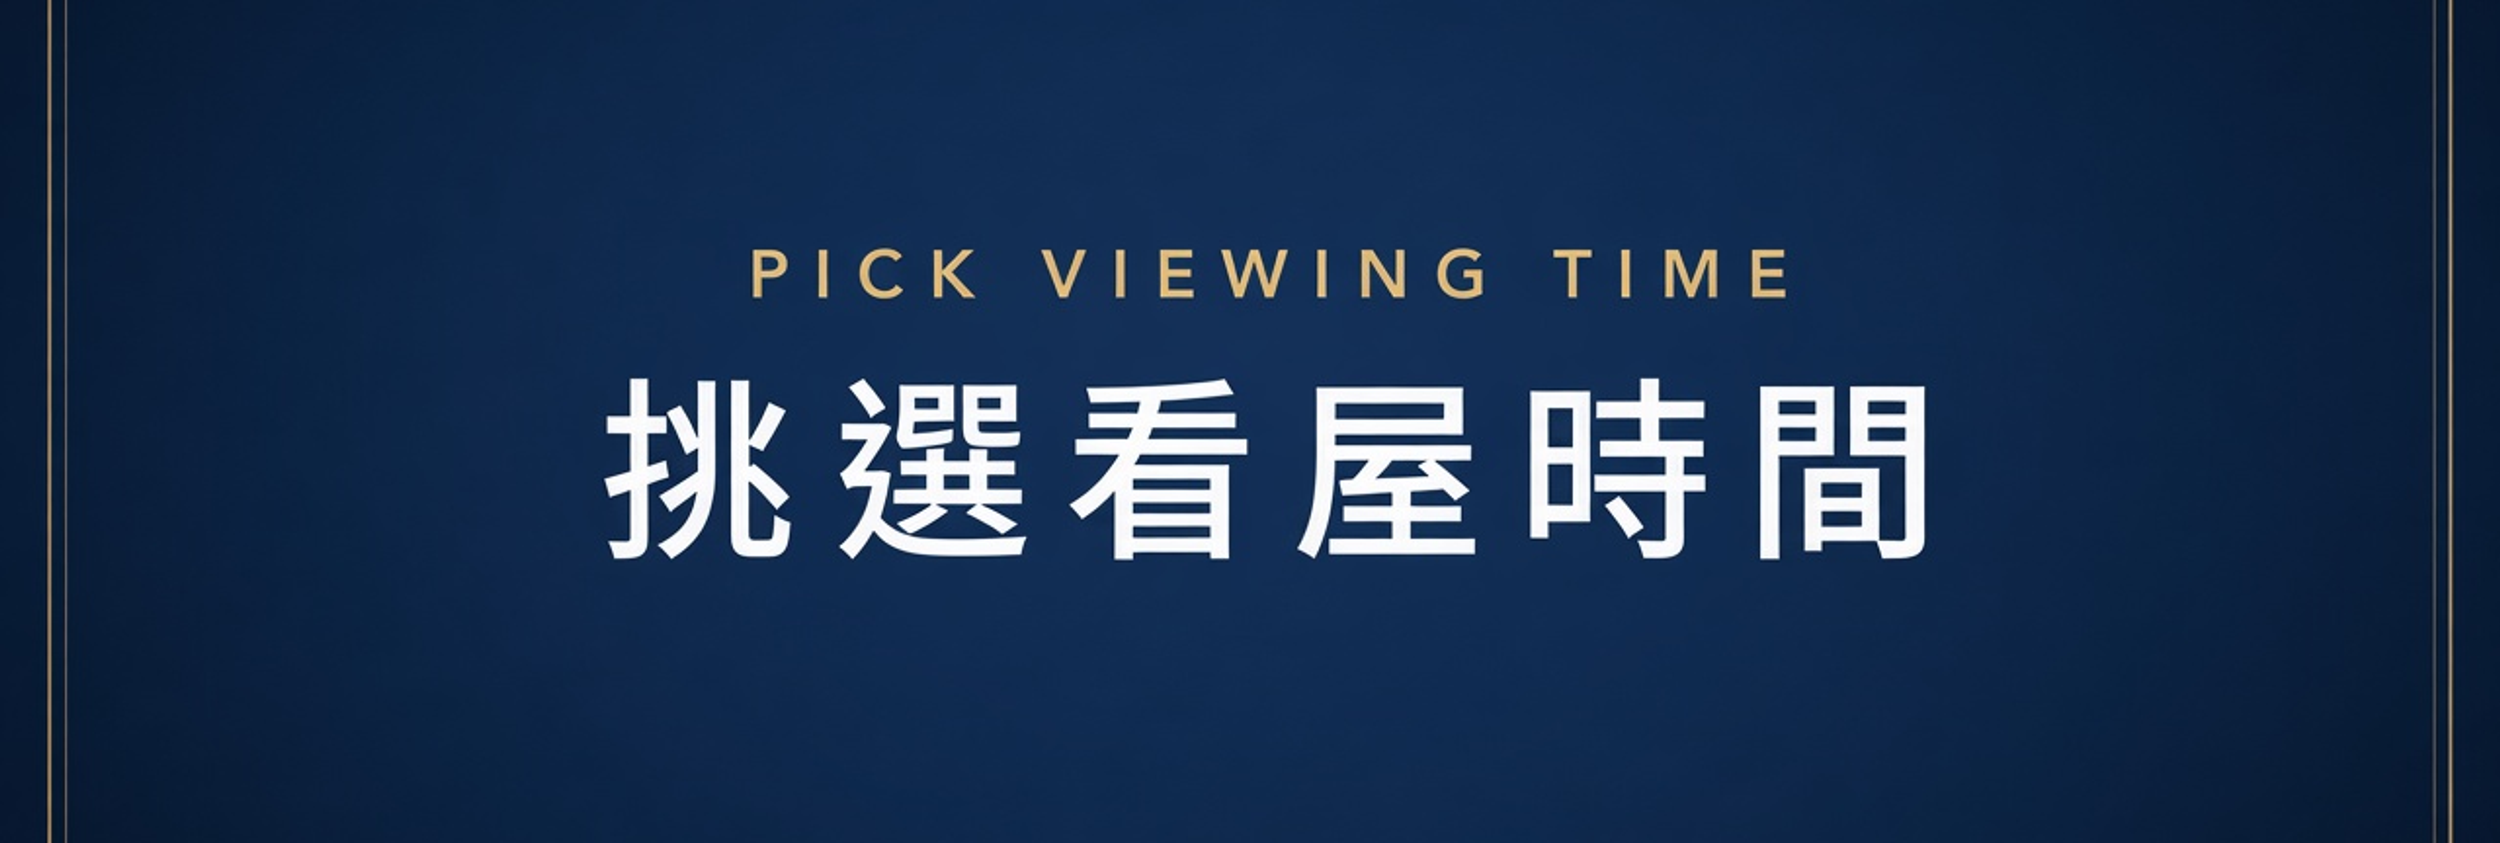
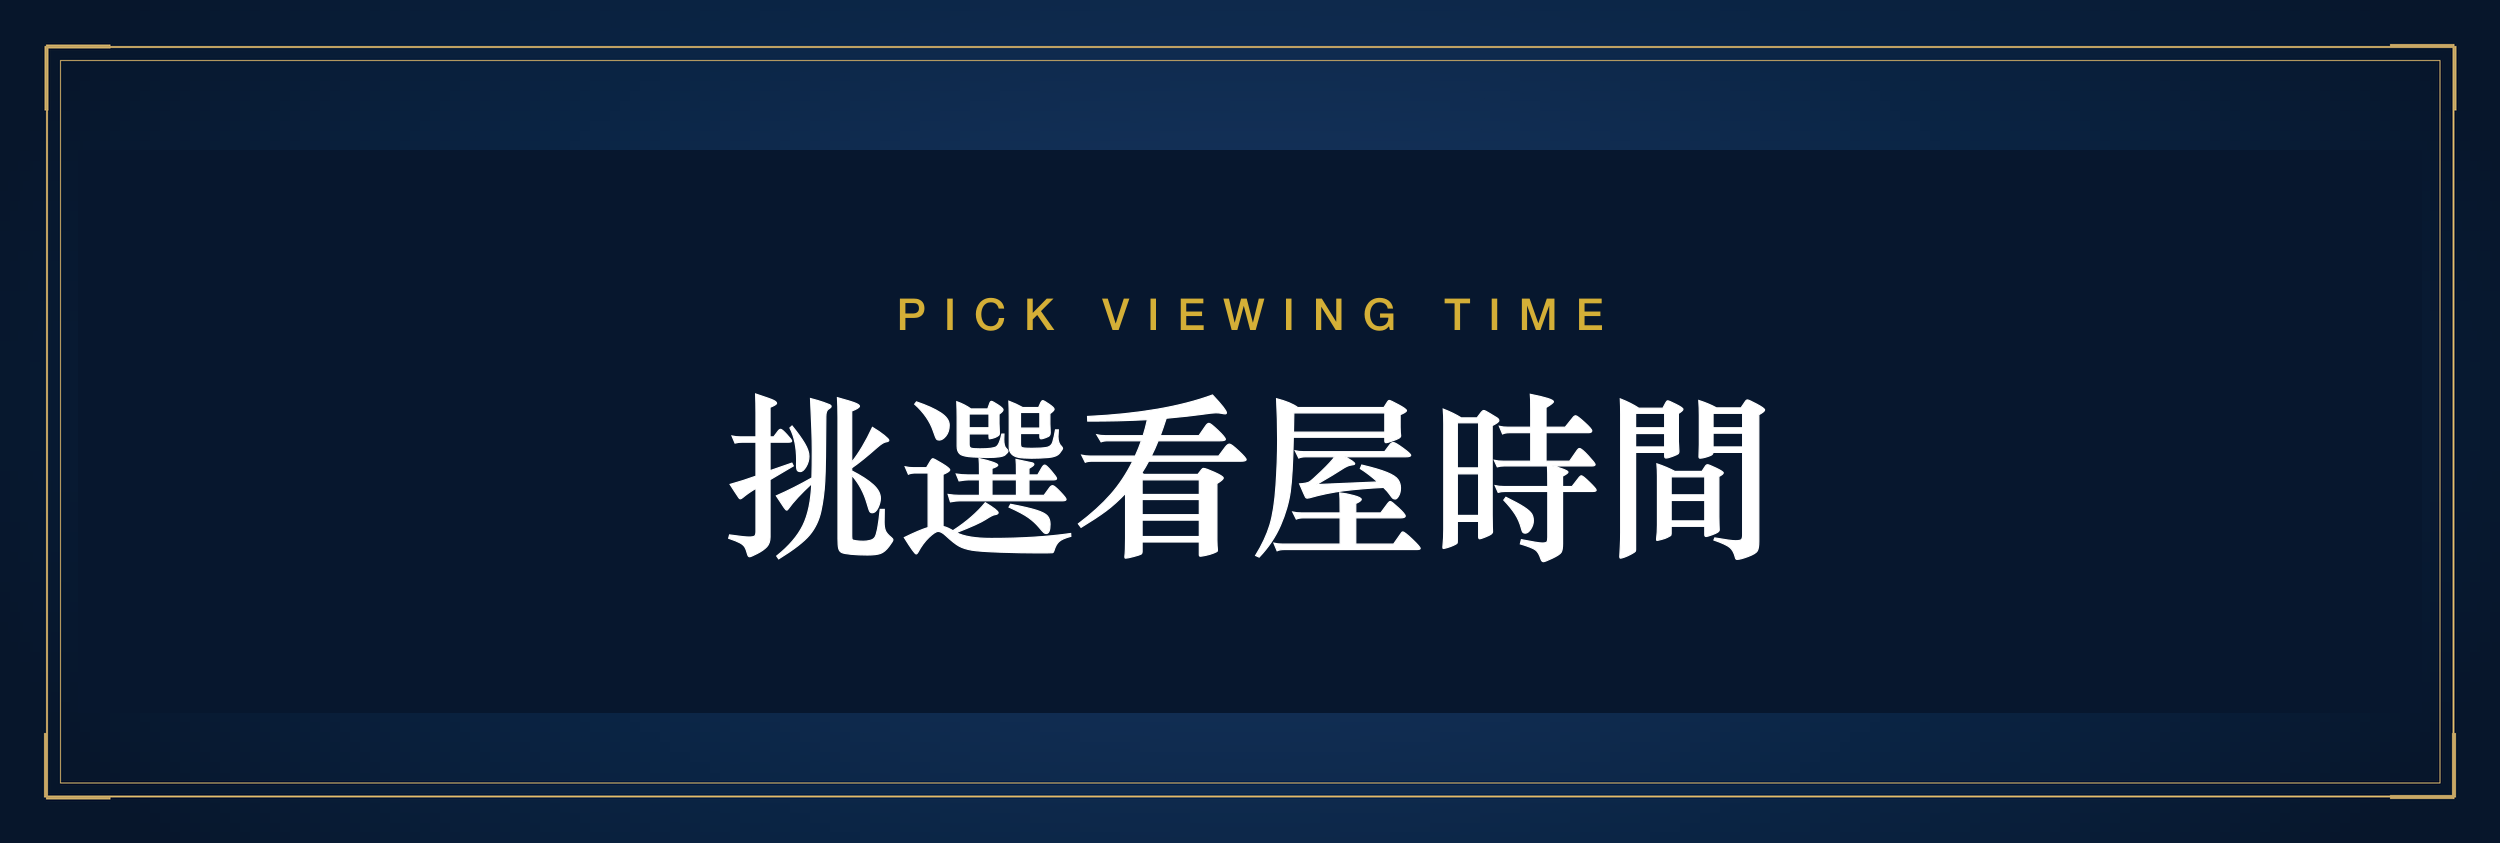
Rebuild pick-viewing CTA from the real rich-menu artwork.
Keep the original gold frame and navy plate, replace copy with PICK VIEWING TIME / 挑選看屋時間 only, and bust LINE image cache.

diff --git a/src/lib/line-591-inquiry.ts b/src/lib/line-591-inquiry.ts
@@ -76,7 +76,8 @@ function pickViewingTimeImageUrl() {
     buildPublicBaseUrl() ||
     process.env.NEXT_PUBLIC_SITE_URL?.replace(/\/$/, "") ||
     "https://house-platform.vercel.app";
-  return `${base}/line/pick-viewing-time.png`;
+  // query 避免 LINE 快取舊圖
+  return `${base}/line/pick-viewing-time.png?v=3`;
 }
 
 /**
